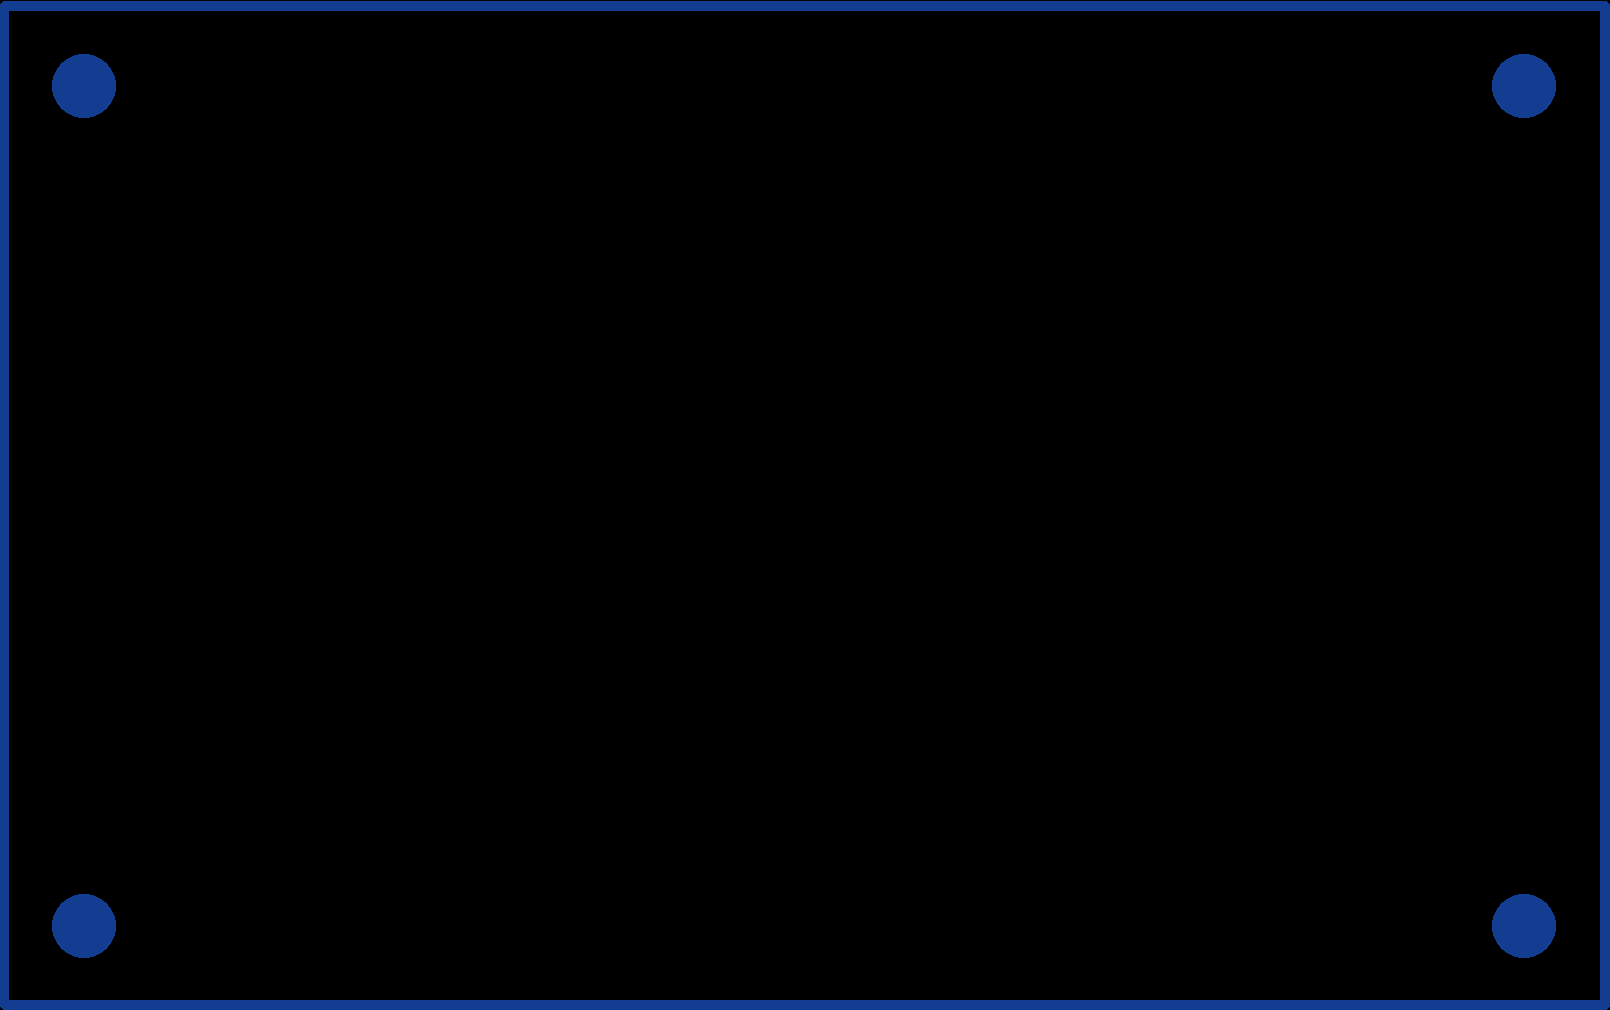
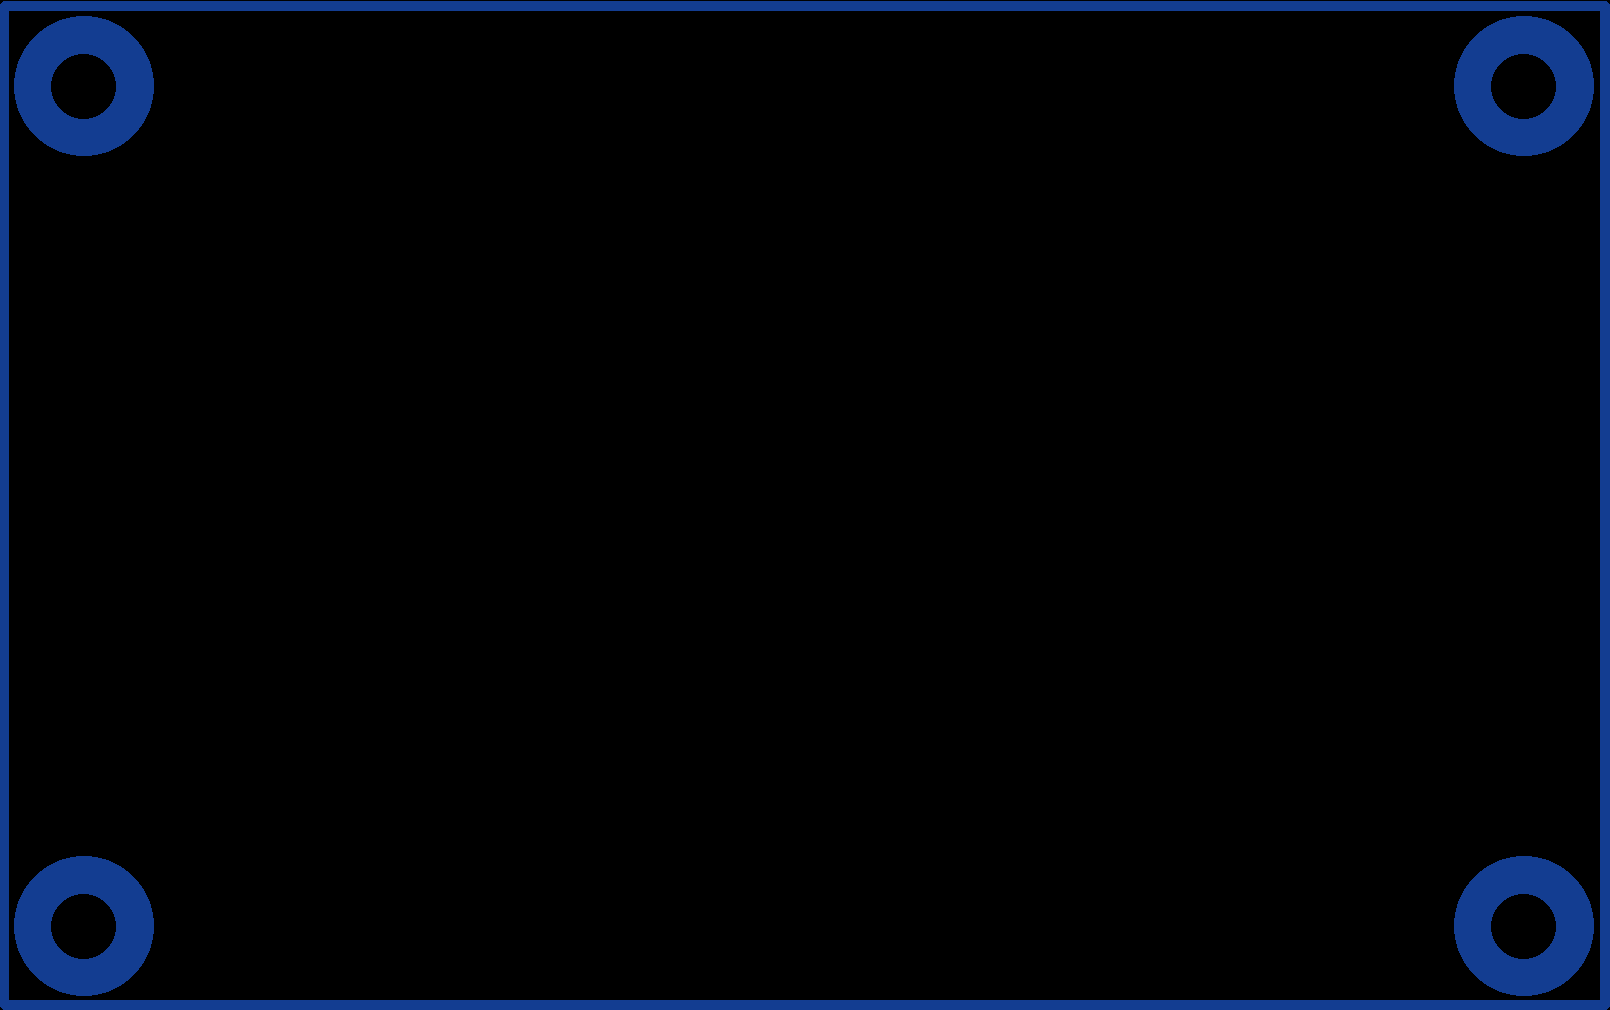
.

diff --git a/doc/Форматы G-code и Gerber.md b/doc/Форматы G-code и Gerber.md
@@ -9,7 +9,7 @@
 		- Сверление отверстий и фрезерование дорожек
 		- Гравировка на плате идентификационной информации
 - [[pcb/Gerber|Gerber]]
-	- стандартный формат для описания печатных плат
+	- Официальный стандартный формат для производства печатных плат ([[pcb/Gerber#X2|Gerber X2]] - текущая версия)
 	- появился как язык управления фотоплоттером:
 		- по рабочему полю в координатах X/Y ездит головка с мощной лампой
 		- на стол кладётся лист фотоплёнки, или плата с нанесённым фоторезистом (прямой вывод)
@@ -25,6 +25,17 @@
 			- `C`ircle, `R`ectangluar, `P`olygon
 		- команды синтеза произвольных апертур
 		- `Dxx*` команда переключения текущей апертуры
+		- блоки, описывают группы повторяющихся элементов, могут выводиться со смещением, масштабированием и поворотом (вывод межслоных переходов /via/ и посадочных мест /pad/ из библиотек компонентов)
+- [[drill]]
+	- файлы сверловки для специализированных координатно-сверлильных станков
+
+На производство описание печатной платы часто отправляется в виде набора gerber-файлов отдельно для каждого слоя:
+- `.gbr` или `.ger` - основной формат
+- `.gm1` - файл паяльной маски (mask layer)
+- `.gto` - файл шелкографии (top output)
+- `.gbl`/.`gtl` - нижний/верхний слой медного покрытия (bottom/top layer)
+
+Конкретные расширения файлов определяются тем, каким САПР для разработки плат ([[pcb/EDA|EDA]] CAD) они были подготовлены.
 
 ## Простая печатная плата 50x100 мм
 
@@ -36,8 +47,8 @@ G04 50x100mm default PCB*
 %FSLAX36Y36*%
 %TF.Part,Other,example*%
 %LPD*%
-%ADD10C,0.500000*%
-%ADD11C,3.200000*%
+%ADD10C,0.5*%
+%ADD11C,7.0X3.2*%
 
 G04 Board Edge Layer*
 D10*
@@ -62,14 +73,22 @@ X76000000Y46000000D03*
 M02*
 ```
 
-- рендер с помощью [[pygerber]]
-	- `mk/rule.mk`
-		```Makefile
-		doc/%.png: lib/gerber/%.grb
-			bin/pygerber render raster $< -o $@
-		```
-		```sh
-		make doc/50x100.png
-		```
+- `G04` комментарий
+- `MOMM` Measure Output unit MM
+- `FSLAX36Y36`
+	- `FS` Format Specification
+	- `LA` для совместимости с предыдущими версиями формата
+	- цифры задают число разрядов до, и после (всегда 6) десятичной точки
+	- координаты задаются в виде фиксированного набора цифр без точки, и формат задаёт максимальный диапазон вывода (2=99x99мм), и позицию точки
+
+рендер с помощью [[pygerber]]
+- `mk/rule.mk`
+	```Makefile
+	doc/%.png: lib/gerber/%.grb
+		bin/pygerber render raster $< -o $@
+	```
+	```sh
+	make doc/50x100.png
+	```
 
 ![[50x100.png]]
